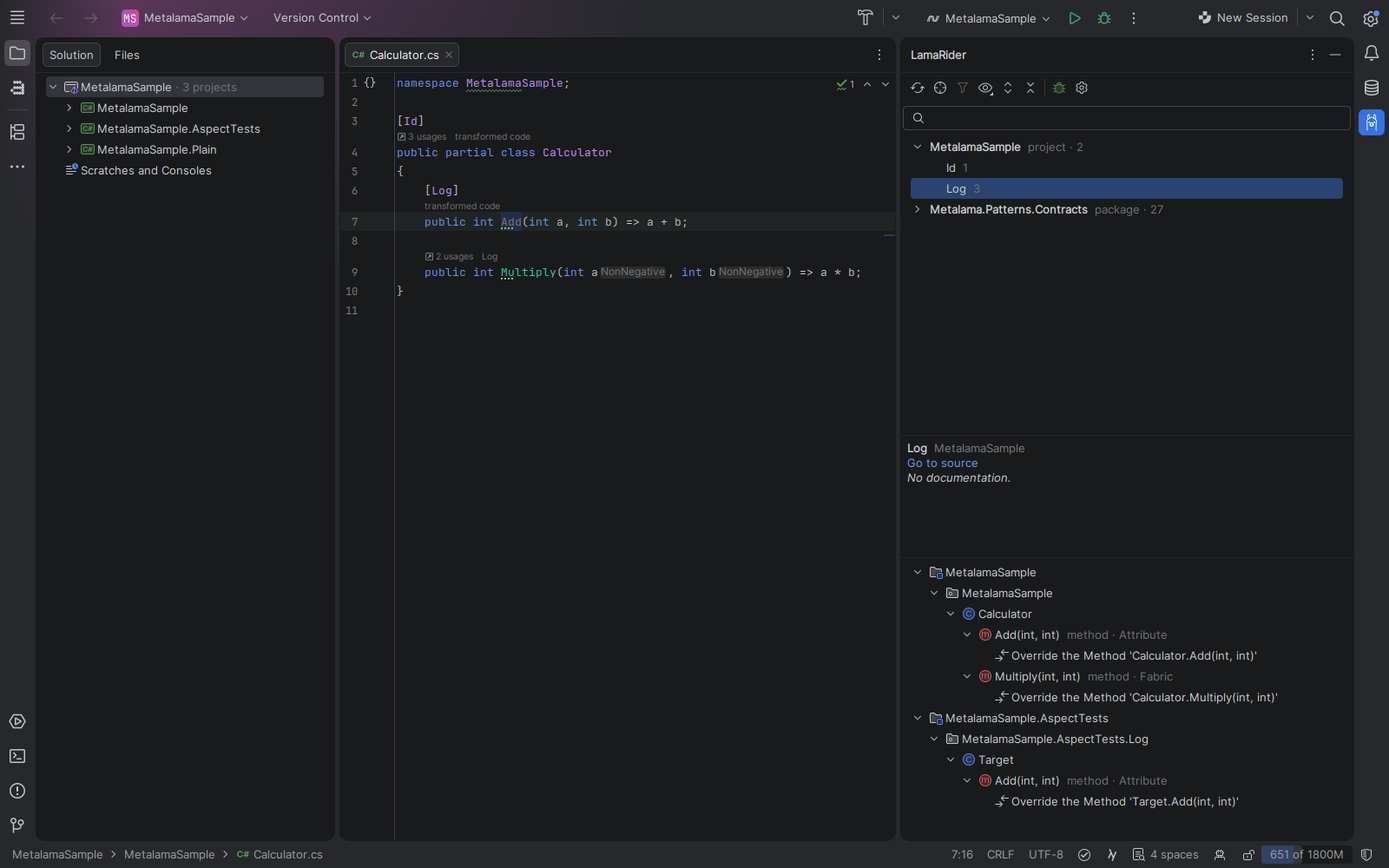
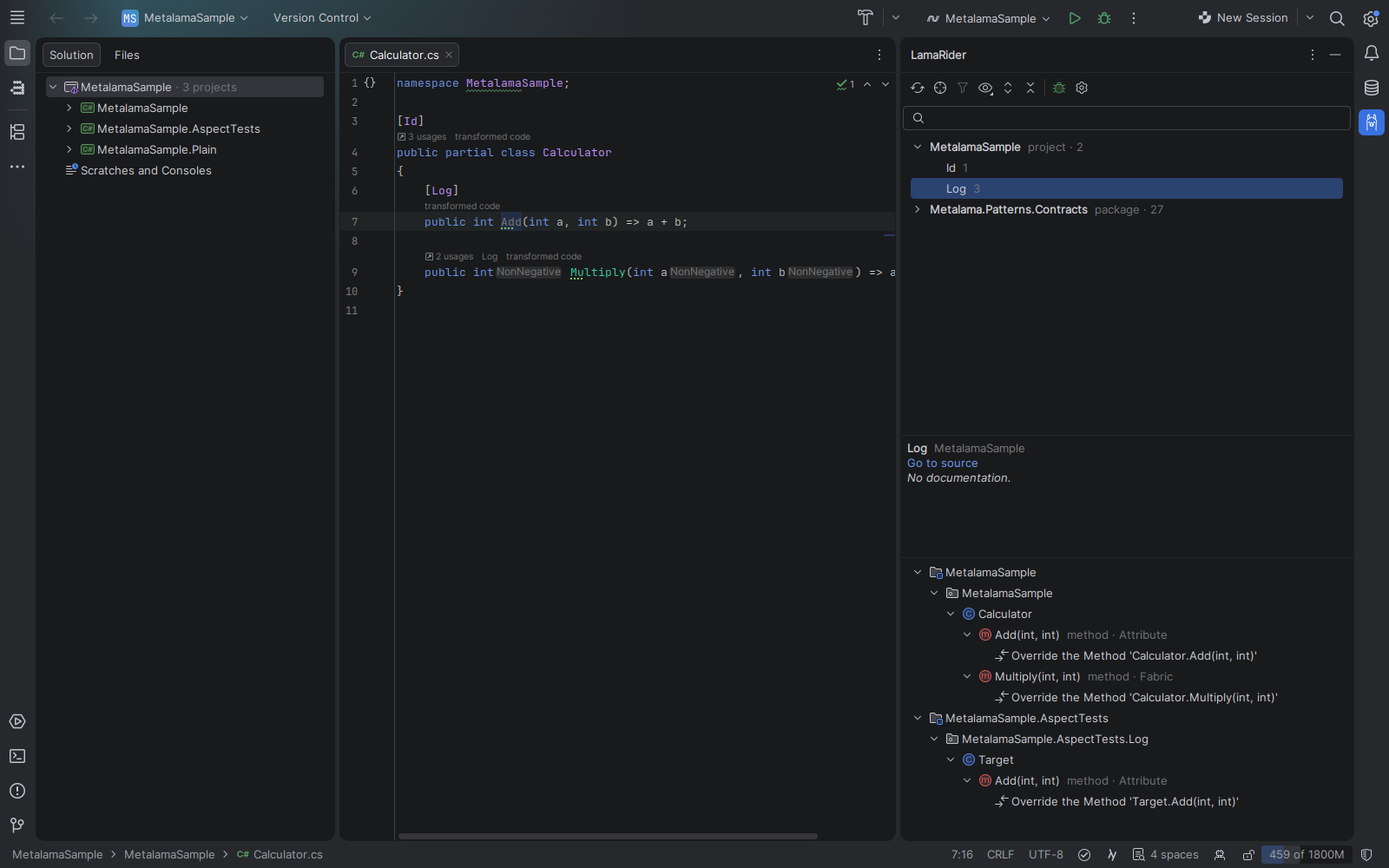
docs: return value hints, Code Vision hint options, aspect test output diff
README feature rows and captions, usage guide (Code Vision and inlay hints,
run and accept with the test output info bar and diff, settings, limitations),
plugin description, changelog, test coverage. Refreshed Code Vision, popup and
settings screenshots; new aspect-test-banner and aspect-test-diff.

diff --git a/docs/plugin-description.html b/docs/plugin-description.html
@@ -15,10 +15,13 @@ refreshes on its own after saves, builds and package changes.</p>
 <h3>Code Vision and transformed code</h3>
 <ul>
   <li>Above every declaration an aspect touches: one entry per aspect added by a fabric, inheritance etc.,
-    <b>N aspects</b> for more than two, <b>transformed code</b> when all are attributes you see anyway; <b>applied to N
-    targets</b> above aspect classes. The tooltip says where the aspect comes from (the fabric's name, or the aspect it
-    is inherited from, added or required by) and gives its documentation, and notes when the aspect's code fixes need a
-    Metalama Professional license. Aspects a fabric puts on a parameter get an inlay hint each.</li>
+    <b>N aspects</b> for more than two, and <b>transformed code</b>; <b>applied to N targets</b> above aspect classes.
+    The tooltip says where the aspect comes from (the fabric's name, or the aspect it is inherited from, added or
+    required by) and gives its documentation, and notes when the aspect's code fixes need a Metalama Professional
+    license. Aspects a fabric puts on a parameter or a return value get an inlay hint each, after the parameter name or
+    the return type.</li>
+  <li>Fewer hints if you like: only the number of aspects on each declaration (parameters and return value included),
+    and <b>Show Transformed Code</b> in the aspect menu instead of a hint of its own.</li>
   <li>A click shows the aspects grouped by member, parameter and return value. Clicking an aspect goes to its source
     (also SourceLink or decompiled), shows it in the LamaRider window, or asks: your choice in the settings.</li>
   <li><b>Show Transformed Code</b> (also a click on <b>transformed code</b>): the transformed code of one declaration in a
@@ -59,11 +62,13 @@ refreshes on its own after saves, builds and package changes.</p>
 <h3>Aspect tests</h3>
 <p>Alt+Enter on an aspect class: <b>Create Metalama aspect test</b> adds a prefilled test file to the aspect test project
 next to the aspect's project, creating the project when there is none. Run or debug the test from the gutter icon or the
-context menus, then <b>Accept Metalama Test Output</b> saves its output as the expected <code>.t.cs</code>. While
+context menus. When the last run's output differs from the expected <code>.t.cs</code>, an info bar offers
+<b>Compare</b> (Rider's diff: take single changes, edit the snapshot, or accept all of it) and <b>Accept all</b>. While
 debugging, breakpoints in your aspects, templates and fabrics stop, no <code>Debugger.Break()</code> needed. The
 debugger's compiled copy of that code shows your source side by side with synced carets, and <b>Readable aspect code
 while debugging</b> has Metalama format it (no <code>global::</code>, normal indentation). Rider's Test Runner discovery,
 which aspect tests need, is set up for you.</p>
+<p><img src="{{screenshots}}/aspect-test-diff.png" width="800" alt="Test output diff"></p>
 <p><img src="{{screenshots}}/debug-aspect-test.png" width="800" alt="Debugging an aspect test"></p>
 
 <h3>Debugging transformed code</h3>
@@ -72,7 +77,7 @@ and starts debugging: step into aspect code or set breakpoints in the transforme
 every build configuration, with or without formatting it (LAMA0066).</p>
 
 <h3>Settings</h3>
-<p><i>Settings › Tools › LamaRider</i>: what clicking an aspect does, build after aspect changes, debug and format transformed code, readable aspect code while debugging, and the Rider setup
+<p><i>Settings › Tools › LamaRider</i>: aspect names or counts in Code Vision, the transformed code as a hint or a menu item, what clicking an aspect does, build after aspect changes, debug and format transformed code, readable aspect code while debugging, and the Rider setup
 Metalama aspect tests need (shows whether it is in place).</p>
 <p><img src="{{screenshots}}/settings.png" width="640" alt="LamaRider settings"></p>
 

diff --git a/docs/usage.md b/docs/usage.md
@@ -4,7 +4,7 @@ Step by step for every feature, and what it cannot do. For an overview with scre
 
 - [Before you start](#before-you-start)
 - [LamaRider tool window](#lamarider-tool-window)
-- [Code Vision and parameter hints](#code-vision-and-parameter-hints)
+- [Code Vision and inlay hints](#code-vision-and-inlay-hints): aspect names or counts, parameter and return value hints
 - [Transformed code](#transformed-code): popup, Metalama Diff, Open Transformed File
 - [Aspects into code](#aspects-into-code): add an aspect as attribute, replace a declaration with its transformed code
 - [T# highlighting](#t-highlighting)
@@ -88,39 +88,50 @@ Limitations:
 - Projects that cannot be restored or loaded by MSBuild are missing (the reason is in the log).
 - Aspect test projects are loaded a second time (see [Aspect tests](#aspect-tests)), which adds to the refresh time.
 
-## Code Vision and parameter hints
+## Code Vision and inlay hints
 
-Above every declaration an aspect touches, Code Vision says which aspects:
+Above every declaration an aspect touches, Code Vision says which aspects. With the default settings
+(*Aspects: Each aspect by name where it applies*, *Transformed code: "transformed code" hint of its own*):
 
 | Code Vision | Meaning |
 |---|---|
-| `transformed code` | Only aspects added by attributes, which you see in the code anyway. Click for the transformed code. |
-| `Log` | One entry per aspect not visible in the code (added by a fabric, inherited, added or required by another aspect, ...), e.g. `Log` and `NonNegative` side by side. At most two are named. |
-| `3 aspects` | More than two aspects not visible in the code, in one entry (the count includes all aspects on the declaration). |
+| `Log` | One entry per aspect on the declaration not visible in the code (added by a fabric, inherited, added or required by another aspect, ...), e.g. `Log` and `Cache` side by side. At most two are named. Aspects added by an attribute are not named: you see the attribute. |
+| `3 aspects` | More than two such aspects, in one entry. |
+| `transformed code` | On every declaration with aspects, also when they are only on its parameters or return value. Click for the transformed code. |
 | `applied to 2 targets` | On an aspect class: how many targets it has in the solution. |
 
-Aspects on a parameter that an attribute adds count for the member (the attribute is in the code). Aspects on a
-parameter from a fabric, inheritance etc. get an **inlay hint** each, right after the parameter name, e.g.
-`a NonNegative`.
+Aspects on a parameter or a return value that a fabric, inheritance etc. adds get an **inlay hint** each: right after the
+parameter name (`a NonNegative`) or after the method's return type (`int NonNegative Multiply`). Aspects an attribute
+puts there get none (the attribute is in the code).
 
 **Hover** an entry or hint for its tooltip. A named aspect's tooltip first says where it comes from: *Added by fabric
 MetalamaSample.Fabric* (the fabric's full type name), *Inherited from ...*, *Added by aspect ...* or *Required by aspect
 ...* (the aspect instance it comes from), *Added by an attribute*, *Added from the IDE*. Then the aspect's documentation
-summary, wrapped to about 70 characters. The tooltips of `N aspects` and `transformed code` list each aspect that way,
-with its name.
+summary, wrapped to about 70 characters. The tooltip of `N aspects` lists each aspect that way, with its name.
+
+**Fewer hints.** *Settings › Tools › LamaRider › Code Vision*:
+
+- *Aspects: Their number on the declaration*: one `N aspects` entry per declaration, counting the aspects on it, its
+  parameters and its return value (attribute aspects included), and no inlay hints. Its tooltip says where each one is,
+  e.g. *GreaterThan1 on a — added by fabric App.Fabric* or *NonNegative on the return value — ...*.
+- *Transformed code: Item in the aspect menu*: no `transformed code` entry; *Show Transformed Code* is in the menu of the
+  declaration's aspect entries instead. A declaration where nothing is named then gets a count entry (`1 aspect`,
+  `2 aspects`) that leads to that menu.
 
 Aspects whose assembly references `Metalama.Extensions.CodeFixes` add a last line to their tooltip: *May offer code
 fixes (Alt+Enter); they need a Metalama Professional license.* `Metalama.Extensions.CodeFixes` is a Premium component
 of Metalama; see [Licensing](#licensing).
 
-![Code Vision and parameter hints](screenshots/code-vision.png)
+![Code Vision and inlay hints](screenshots/code-vision.png)
 
-**Click** a Code Vision entry or a parameter hint (or use *Show Metalama Aspects* in the editor context menu or Find
+**Click** a Code Vision entry or an inlay hint (or use *Show Metalama Aspects* in the editor context menu or Find
 Action for the declaration at the caret, without the mouse):
 
-- `transformed code` (only attribute aspects) opens the [transformed code popup](#transformed-code) right away.
+- `transformed code` opens the [transformed code popup](#transformed-code) right away.
 - Otherwise a menu offers:
-  1. *Show Transformed Code*: the declaration after all aspects, see [below](#transformed-code).
+  1. *Show Transformed Code*: the declaration after all aspects, see [below](#transformed-code). Only with *Transformed
+     code: Item in the aspect menu*, and only in the declaration's own menu: the menus of parameter and return value
+     hints never offer it.
   2. *Metalama Diff (whole file)*.
   3. The aspects, grouped by what they decorate: the member, each parameter (*Parameter a*), the return value, with
      their origin for those not added by an attribute (`Log (fabric)`).
@@ -134,17 +145,19 @@ aspects open their SourceLink or decompiled source), *Show it in the LamaRider w
 
 Limitations:
 
-- Code Vision is per line, so aspects on parameters are hints after the parameter, not Code Vision entries.
-- Rider shows one Code Vision entry per provider and declaration. LamaRider has three providers (*Metalama aspects*,
-  *Metalama aspects (second aspect)*, *Metalama aspect targets*, also in *Settings › Editor › Inlay Hints › Code
-  Vision*), so a declaration shows at most two named aspects, and more collapse into `N aspects`.
+- Code Vision is per line, so aspects on parameters and return values are inlay hints, not Code Vision entries.
+- Rider shows one Code Vision entry per provider and declaration. LamaRider has four providers (*Metalama aspects*,
+  *Metalama aspects (second aspect)*, *Metalama aspects (third hint, e.g. transformed code)*, *Metalama aspect
+  targets*, also in *Settings › Editor › Inlay Hints › Code Vision*), so a declaration shows at most two named aspects,
+  and more collapse into `N aspects`.
 - The counts come from the last refresh: a freshly added `[Log]` shows up after the save has been analyzed.
 
 ## Transformed code
 
 **Transformed code popup.** From Code Vision (*Show Transformed Code*), the editor context menu / Find Action
 (*Show Transformed Code*, for the declaration at the caret), or a double-click on a transformation in the LamaRider
-window, or a click on a `transformed code` Code Vision hint. The popup shows the declaration as Metalama compiles it,
+window, or a click on a `transformed code` Code Vision hint (or *Show Transformed Code* in the aspect menu, see
+[Code Vision](#code-vision-and-inlay-hints)). The popup shows the declaration as Metalama compiles it,
 highlighted like the editor. Its toolbar has the diff toggle, which switches to source and transformed code side by
 side (remembered; not offered for declarations an aspect introduced), and *Whole File in Metalama Diff*. The bottom row
 links the aspects that changed it (hover for their documentation; a click does what
@@ -179,7 +192,7 @@ aspects transform.
 ### Add an aspect as attribute
 
 For aspects you don't see in the code: added by a fabric, inherited, or added or required by another aspect (Code
-Vision names them, parameters have an inlay hint).
+Vision names them, parameters and return values have an inlay hint).
 
 1. Put the caret on the name of the declaration (type, member or parameter).
 2. Alt+Enter › *Add [Log] as attribute (added by fabric MetalamaSample.Fabric)*, one entry per aspect class. Or editor
@@ -319,11 +332,28 @@ is a test case, and the test compares its transformed code with the `.t.cs` file
 ### Run and accept
 
 1. Run the test: the run icon in the gutter of the test file, or *Run Metalama Aspect Test* in the editor or Solution
-   Explorer context menu (also from Rider's Unit Tests window). Rider builds the project and discovers its tests first
-   when it has not yet.
-2. The first run fails: there is no snapshot yet. Check the transformed code in the test output.
-3. In the test file, Alt+Enter › *Accept Metalama test output* (or editor context menu › *Accept Metalama Test Output*):
-   the last run's output becomes the test's `.t.cs` snapshot. Run again: it passes.
+   Explorer context menu (also from Rider's Unit Tests window), or `dotnet test` in a terminal. Rider builds the project
+   and discovers its tests first when it has not yet.
+2. The first run fails: there is no snapshot yet. Metalama writes the run's output to
+   `obj/transformed/<tfm>/<folder>/<Test>.t.cs` in the test project.
+3. The test file and its `.t.cs` get an info bar when that output differs from the `.t.cs`: *Test output differs from
+   LogTest.t.cs* (or *LogTest.t.cs is empty* when there is no snapshot yet), with two links:
+   - *Compare*: Rider's diff viewer, the last run's output on the left (*Last run output (read-only)*), the real `.t.cs`
+     on the right (editable). Take single changes with the diff's arrows, edit the snapshot directly, or take the whole
+     output with *Accept All* in the diff toolbar. Also *Compare Metalama Test Output* in the editor and Solution
+     Explorer context menus of the test file or its `.t.cs`.
+   - *Accept all*: the whole output becomes the `.t.cs` (created when missing).
+4. Or Alt+Enter in the test file › *Accept Metalama test output* (or editor context menu › *Accept Metalama Test
+   Output*): the last run's output becomes the test's `.t.cs` snapshot.
+5. Run again: it passes, and the info bar goes away.
+
+Accepting from the info bar or the diff is an undoable edit of the `.t.cs` (Ctrl+Z), saved right away. Like Metalama's
+own comparison, LamaRider ignores line endings and trailing whitespace: output that differs only in those gets no info
+bar.
+
+![Test output info bar](screenshots/aspect-test-banner.png)
+
+![Test output diff](screenshots/aspect-test-diff.png)
 
 Test inputs show their aspects like any other code: LamaRider window, Code Vision, Track Caret, transformed code. Rider
 no longer greys them out as unused.
@@ -357,6 +387,9 @@ the formatted copy (covered by the UI test *debugging stops in readable compile-
 
 Limitations:
 
+- The test output info bar updates when Rider notices the new output files: right away for runs inside Rider; after a
+  run in a terminal, when Rider's window gets the focus back. With several target frameworks, the newest output is
+  compared.
 - Breakpoints added or changed during a session are mirrored at the next session.
 - Mirroring reads Metalama's internal line map format (Metalama 2026.1) and watches for the test run's copy by polling.
   If Metalama changes the format or the copy is missed, the breakpoint simply doesn't stop, as without LamaRider.
@@ -390,6 +423,8 @@ Rider 2026.2 and 2026.3 test runs). The first *Run / Debug Metalama Aspect Test*
 
 | Setting | Default | Effect |
 |---|---|---|
+| Code Vision › Aspects | Each aspect by name where it applies | By name: aspects not visible in the code on the declaration; parameter and return value aspects as inlay hints. *Their number on the declaration*: one `N aspects` with the declaration's, its parameters' and return value's aspects, no inlay hints. See [Code Vision](#code-vision-and-inlay-hints). For all solutions. |
+| Code Vision › Transformed code | "transformed code" hint of its own | A `transformed code` entry on every declaration with aspects that opens its transformed code, or *Item in the aspect menu*: *Show Transformed Code* in the declaration's aspect menu. For all solutions. |
 | Code Vision › Clicking an aspect | Go to the aspect's source | In the Code Vision menu and the transformed code popup: go to the aspect class (library aspects: SourceLink or decompiled), show it in the LamaRider window, or ask. For all solutions. |
 | Build the project after aspect or template code is saved | off | Builds the saved file's project so Metalama's design-time analysis resumes (LAMA0118). For all solutions. |
 | Debug transformed code in every build configuration | off | `MetalamaDebugTransformedCode` in the solution's `Directory.Build.props`. |

diff --git a/README.md b/README.md
@@ -11,13 +11,13 @@ Metalama tooling for JetBrains Rider — the Rider counterpart of the Visual Stu
 | Feature | What you get |
 |---|---|
 | **LamaRider tool window** | Right side bar (llama icon): every aspect class of the solution and its packages, filtered by name and grouped by project/package, by namespace or not at all; documentation and *Go to source* (also for library aspects: sources or decompiled); the targets of the selected aspect as Project › Namespace › Type › Member with transformations and diagnostics. *Track Caret* shows the aspects affecting the code at the caret instead. Refreshes on its own after saves, builds and package changes. |
-| **Code Vision** | Above every declaration an aspect touches: one entry per aspect added by a fabric, inheritance etc. (`Log`, `NonNegative`), `N aspects` for more than two, `transformed code` when all its aspects are attributes you see anyway; `applied to N targets` on aspect classes. The tooltip says where the aspect comes from (the fabric's full name, or the aspect it is inherited from, added or required by) and gives its documentation. Aspects a fabric or inheritance puts on a parameter get an inlay hint per aspect after the parameter. A click on `transformed code` opens the transformed code; on aspect names, a menu with the transformed code, Metalama Diff and the aspects grouped by member, parameter and return value. Clicking an aspect goes to its source, shows it in the LamaRider window, or asks (*Settings › Tools › LamaRider*). Aspects whose assembly references `Metalama.Extensions.CodeFixes` say in the tooltip that their code fixes need a Metalama Professional license. |
+| **Code Vision** | Above every declaration an aspect touches: one entry per aspect added by a fabric, inheritance etc. (`Log`), `N aspects` for more than two, and `transformed code`; `applied to N targets` on aspect classes. The tooltip says where the aspect comes from (the fabric's full name, or the aspect it is inherited from, added or required by) and gives its documentation. Aspects a fabric or inheritance puts on a parameter or a return value get an inlay hint per aspect, after the parameter name or the return type (`int NonNegative Multiply`). A click on `transformed code` opens the transformed code; on aspect names, a menu with Metalama Diff and the aspects grouped by member, parameter and return value. Clicking an aspect goes to its source, shows it in the LamaRider window, or asks. *Settings › Tools › LamaRider › Code Vision*: each aspect by name or only their number on the declaration, and the transformed code as a hint of its own or an item in the aspect menu. Aspects whose assembly references `Metalama.Extensions.CodeFixes` say in the tooltip that their code fixes need a Metalama Professional license. |
 | **Aspects into code** | Alt+Enter on a declaration name: *Add [Log] as attribute (added by fabric …)* writes an aspect that a fabric, inheritance or another aspect adds as an attribute, with the same constructor arguments and properties. *Replace with transformed code (remove its aspects)* replaces a type or member with Metalama's transformed code, like `metalama divorce` for one declaration: aspect attributes go, aspects a fabric etc. would add again get `[ExcludeAspect]`. Editor menu: *Add Metalama Aspects as Attributes* (all of them), *Replace with Metalama Transformed Code*. |
 | **Transformed code** | *Show Transformed Code* (Code Vision, editor menu): the declaration after all aspects in a popup, highlighted, with a toggle to diff it with the source, *Whole File in Metalama Diff*, and links to the aspects that changed it. *Metalama Diff* (editor / Solution Explorer menu, `Ctrl+K, 0` in the Visual Studio keymap): the whole file, source vs transformed. |
 | **T# highlighting** | Compile-time code in templates is tinted, `meta.*` and compile-time variables stand out. Colors: *Settings › Editor › Color Scheme › Metalama T#*. |
 | **Metalama errors** | Errors such as LAMA0037 are underlined from LamaRider's own analysis seconds after a save, also while Rider's own Metalama analysis waits for a build (LAMA0118). Errors without a location (e.g. an exception in a fabric) show in an info bar on C# editors and on your aspect classes. Alt+Enter: LAMA documentation, *Build project to resume Metalama analysis*; optional build on save. |
 | **Debug transformed code** | *Debug with LamaDebug* (tool window): selects Metalama's `LamaDebug` configuration, adding it to the `.sln`/`.slnx` first if needed, and starts debugging the transformed code. Or debug transformed code in every configuration (*Settings › Tools › LamaRider*), with or without formatting it (LAMA0066). |
-| **Aspect tests** | Alt+Enter on an aspect class › *Create Metalama aspect test*: a prefilled test in the aspect test project next to the aspect's project, created when missing. Run / debug it from the gutter icon or the context menus, then *Accept Metalama Test Output* saves the `.t.cs` snapshot. Breakpoints in your aspects, templates and fabrics stop while debugging; the debugger's copy of that code opens with your source side by side (carets synced), readable on request (*Readable aspect code while debugging*). Rider's Test Runner discovery, which aspect tests need, is set up for you. |
+| **Aspect tests** | Alt+Enter on an aspect class › *Create Metalama aspect test*: a prefilled test in the aspect test project next to the aspect's project, created when missing. Run / debug it from the gutter icon or the context menus. When the last run's output differs from the `.t.cs` snapshot, an info bar on the test and its `.t.cs` offers *Compare* (Rider's diff: take single changes, edit the snapshot, or *Accept All*) and *Accept all*; *Accept Metalama Test Output* does the same from the menus. Breakpoints in your aspects, templates and fabrics stop while debugging; the debugger's copy of that code opens with your source side by side (carets synced), readable on request (*Readable aspect code while debugging*). Rider's Test Runner discovery, which aspect tests need, is set up for you. |
 
 PostSharp classic (MSIL) projects are not supported. **How to use each feature, step by step, and its limitations:
 [docs/usage.md](docs/usage.md).**
@@ -35,17 +35,18 @@ tool window bar.
 *Track Caret* (locate icon in the LamaRider toolbar): the targets tree follows the caret and lists every aspect on
 `Multiply`, its parameters and its class.
 
-![Code Vision and parameter hints](docs/screenshots/code-vision.png)
+![Code Vision and inlay hints](docs/screenshots/code-vision.png)
 
-Code Vision on the sample: `transformed code` on the declarations with aspect attributes, one entry each for `Log` and
-`NonNegative` (its return value) on a method a fabric targets, and `NonNegative` hints after its parameters (hover them
-for the fabric's name and the aspect's documentation). Shown on any C# file
-once LamaRider has analyzed it.
+Code Vision on the sample: `transformed code` on every declaration with aspects, `Log` on `Multiply` (a fabric adds
+it), and inlay hints for the `NonNegative` aspects the fabric puts on its return value (`int NonNegative Multiply`) and
+parameters (hover them for the fabric's name and the aspect's documentation). Shown on any C# file once LamaRider has
+analyzed it.
 
 ![Code Vision popup](docs/screenshots/code-vision-popup.png)
 
-Click an aspect name in Code Vision (or *Show Metalama Aspects* in the editor menu): the transformed code, Metalama Diff
-and the aspects grouped by member and parameter, with their origin. Clicking an aspect goes to its source by default.
+Click an aspect name in Code Vision (or *Show Metalama Aspects* in the editor menu): Metalama Diff and the aspects
+grouped by member, parameter and return value, with their origin. Clicking an aspect goes to its source by default.
+With *Transformed code: Item in the aspect menu* the menu also offers *Show Transformed Code*.
 
 ![Transformed code popup](docs/screenshots/transformed-code-popup.png)
 
@@ -98,6 +99,18 @@ test project, with a target that already uses `[Log]`.
 
 An aspect test file: the gutter icon runs or debugs it, and Code Vision shows what the aspect does to the test input.
 
+![Test output info bar](docs/screenshots/aspect-test-banner.png)
+
+After a test run whose output differs from the `.t.cs` snapshot: an info bar on the test file and its `.t.cs`, with
+*Compare* and *Accept all*. It shows once Rider notices the new output (right away for runs in Rider, when its window
+gets the focus back after a run in a terminal).
+
+![Test output diff](docs/screenshots/aspect-test-diff.png)
+
+*Compare* (or *Compare Metalama Test Output* in the editor and Solution Explorer menus): the last run's output (left,
+read-only) against the real `.t.cs` (right). Take single changes with the arrows, edit the snapshot, or take everything
+with *Accept All* (toolbar icon, its tooltip shown here); Ctrl+Z undoes it.
+
 ![Debugging an aspect test](docs/screenshots/debug-aspect-test.png)
 
 *Debug Metalama Aspect Test*: stopped at a breakpoint set in `LogAttribute.cs`. The debugger shows Metalama's compiled
@@ -107,9 +120,10 @@ no `global::`, normal indentation, slower builds of aspect projects.
 
 ![LamaRider settings](docs/screenshots/settings.png)
 
-*Settings › Tools › LamaRider* (or the settings icon in the LamaRider tool window): what clicking an aspect does, build on
-save, debugging transformed code, formatting it, readable aspect code while debugging, and whether Rider is set up for
-aspect tests.
+*Settings › Tools › LamaRider* (or the settings icon in the LamaRider tool window): how Code Vision shows aspects (by name
+or their number) and the transformed code (a hint or a menu item), what clicking an aspect does, build on save,
+debugging transformed code, formatting it, readable aspect code while debugging, and whether Rider is set up for aspect
+tests.
 
 ## Requirements
 

diff --git a/docs/test-coverage.md b/docs/test-coverage.md
@@ -14,12 +14,21 @@ Run them with `dotnet test LamaRider.sln` (backend model + worker) and `./gradle
 | Model: project-wide errors on own aspect classes, compile-time files (Alt+Enter build), error summary | `AspectModelTests.cs` |
 | Worker: aspects as attributes (constructor and named arguments from the aspect object), standalone transformed code (aspect attributes removed, `[ExcludeAspect]`) | `AttributeArgumentsTests.cs`, `WorkerTests.cs` |
 | Model: warnings of *Replace with transformed code*, code-fix license note | `ReplaceWithTransformedTests.cs`, `AspectHintsTests.cs` |
+| Model: Code Vision hints per setting (named or count, "transformed code" hint or menu, count tooltip naming where each aspect is), parameter and return value hints | `AspectHintsTests.cs` |
 | Auto refresh: which file changes refresh | `RefreshTriggerTests.cs` |
 | LamaDebug configuration added to .sln / .slnx | `LamaDebugConfigurationTests.cs` |
 | Test-settings status text (settings page) | `TestSettingsStatusTests.cs` |
 | Metalama version detection, worker runner, workspace inputs, Directory.Build.props toggle | `MetalamaVersionDetectorTests.cs`, `WorkerRunnerTests.cs`, `WorkspaceInputsTests.cs`, `DebugTransformedCodePropsTests.cs` |
 | Frontend: grouping/filter, caret target, error signature + info-bar text, contract transformations, member names, transformed-code lookup and re-indentation | `src/rider/test/kotlin/dev/lamarider/ModelDataTest.kt` |
 | Frontend: obj/…/metalama fallback for Open Transformed File / Metalama Diff | `ObjTransformedFilesTest.kt` |
+| Frontend: aspect test output lookup (newest `obj/transformed/<tfm>` output, test ↔ `.t.cs`, only aspect test projects), comparison ignoring line endings and trailing whitespace | `AspectTestOutputTest.kt` |
+
+## Covered by UI tests
+
+`./gradlew uiTest` (`src/rider/uiTest/kotlin/dev/lamarider/uitest/LamaRiderUiTest.kt`) drives a real Rider on the sample
+solution. Among them, *aspect test output is compared with the snapshot and accepted from the banner*: creates a test,
+runs `dotnet test` outside the IDE, waits for the info bar, opens *Compare* (the diff with *Last run output
+(read-only)*), accepts from the info bar and checks that the test then passes.
 
 ## Checked by hand in the sandbox only
 
@@ -40,8 +49,9 @@ A ReSharper integration test project (`JetBrains.ReSharper.TestFramework`) would
   project over Miscellaneous Files) and logging (`LamaRider: run aspect test refused ...`).
 - **Fixtures**: only the small `samples/MetalamaSample` (.sln, net8). No fixture is shaped like a real project (.slnx,
   net10, older generated test projects).
-- **Features without automated end-to-end tests**: parameter inlay hint clicks, tooltip rendering, the "transformed
-  code" hint opening the popup directly, the *Clicking an aspect* setting and popup links, the compiled-copy banner
+- **Features without automated end-to-end tests**: parameter and return value inlay hint clicks, tooltip rendering, the "transformed
+  code" hint opening the popup directly, the Code Vision *Aspects* / *Transformed code* settings in a running Rider,
+  taking single changes in the test output diff, the *Clicking an aspect* setting and popup links, the compiled-copy banner
   action, Alt+Enter variants (only their editor-menu twins are tested), the LamaDebug configuration, settings toggles,
   applying the aspect-test settings, library-aspect navigation (decompiled / SourceLink), auto-build, grouping options.
 - **Versions**: tested in Rider 2026.2.3 and 2026.3 EAP6, with Metalama 2026.1.30 only (the Metalama 2027 xUnit v3 test

diff --git a/CHANGELOG.md b/CHANGELOG.md
@@ -1,6 +1,11 @@
 # Changelog
 
 ## Unreleased
+- Return value aspects added by a fabric, inheritance or another aspect get an inlay hint after the method's return type, like parameter hints after the parameter name.
+- *Settings › Tools › LamaRider › Code Vision › Aspects*: *Each aspect by name where it applies* (default) or *Their number on the declaration* (one "N aspects" counting the declaration's, its parameters' and its return value's aspects, no inlay hints; the tooltip says where each one is, e.g. "GreaterThan1 on a").
+- *Settings › Tools › LamaRider › Code Vision › Transformed code*: a "transformed code" hint of its own (default; now on every declaration with aspects, also when they are on its parameters or return value) or *Show Transformed Code* in the declaration's aspect menu (a count hint leads there when nothing is named). Parameter and return value hint menus no longer offer *Show Transformed Code*; the aspect menu offers it only with the menu setting.
+- Aspect tests: an info bar on the test file and its `.t.cs` when the last run's output differs from the snapshot ("Test output differs from X.t.cs" / "X.t.cs is empty"), with *Compare* and *Accept all*. *Compare* (also *Compare Metalama Test Output* in the editor and Solution Explorer menus) opens Rider's diff: the last run's output (read-only) against the real `.t.cs` (editable), with *Accept All* in the toolbar. Accepting is an undoable edit; line endings and trailing whitespace don't count. The info bar updates when Rider notices the new output (runs in Rider, or when its window gets the focus back after a run in a terminal).
+- Documentation: Code Vision options, return value hints, test output diff; new and refreshed screenshots.
 - Alt+Enter on a declaration name › *Add [X] as attribute (added by fabric …)*: writes an aspect that a fabric, inheritance or another aspect adds (also on parameters) as an attribute, with the same constructor arguments and properties, read from the live aspect object. Editor menu: *Add Metalama Aspects as Attributes* adds all of them. The fabric still adds the aspect too; Metalama runs the attribute's instance. Not offered when the aspect is not a public attribute or a value cannot be written in C# (constants, enums, `typeof`, one-dimensional arrays).
 - Alt+Enter on a type or member name › *Replace with transformed code (remove its aspects)*: replaces the declaration with Metalama's transformed code (`metalama divorce` for one declaration). Aspect attributes are removed; aspects a fabric, inheritance or another aspect would add again get `[ExcludeAspect(typeof(...))]`. A notification names aspects on a containing declaration that still transform it and code the aspects changed outside it, which goes away. Only offered while LamaRider's analysis matches the file. Editor menu: *Replace with Metalama Transformed Code*.
 - Code Vision tooltips say "May offer code fixes (Alt+Enter); they need a Metalama Professional license." for aspects whose assembly references `Metalama.Extensions.CodeFixes` (a Premium component; without a license the build fails with LAMA0806).
